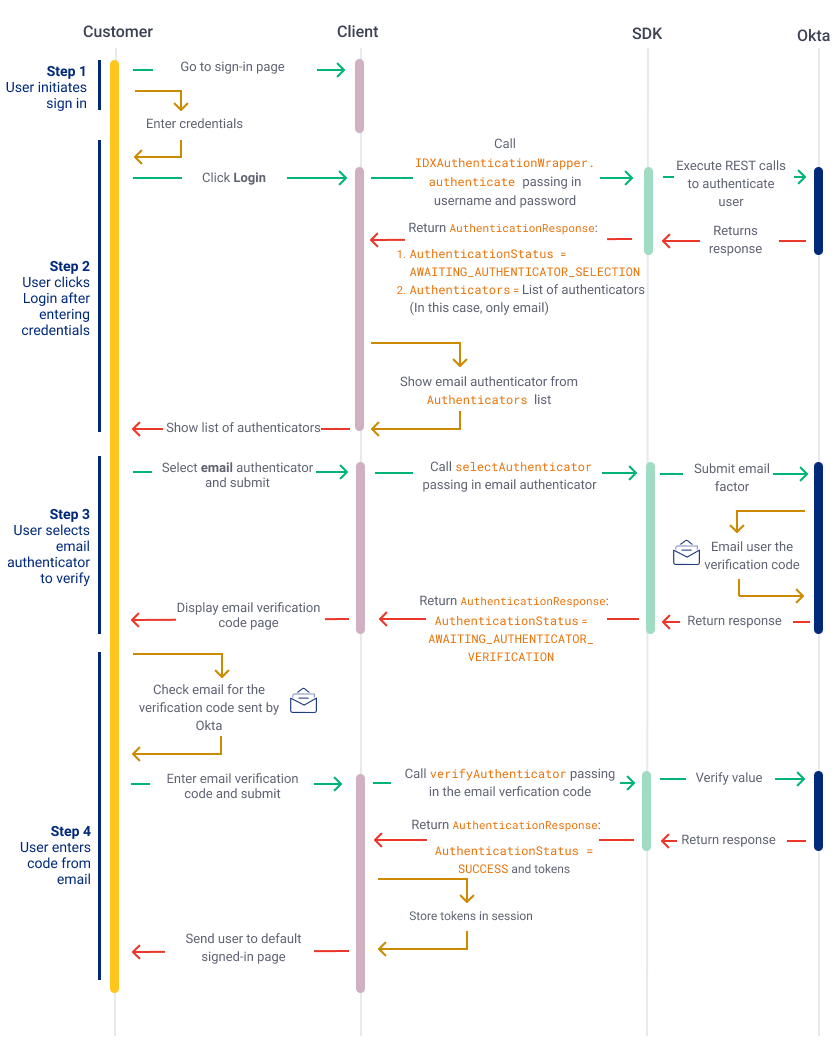
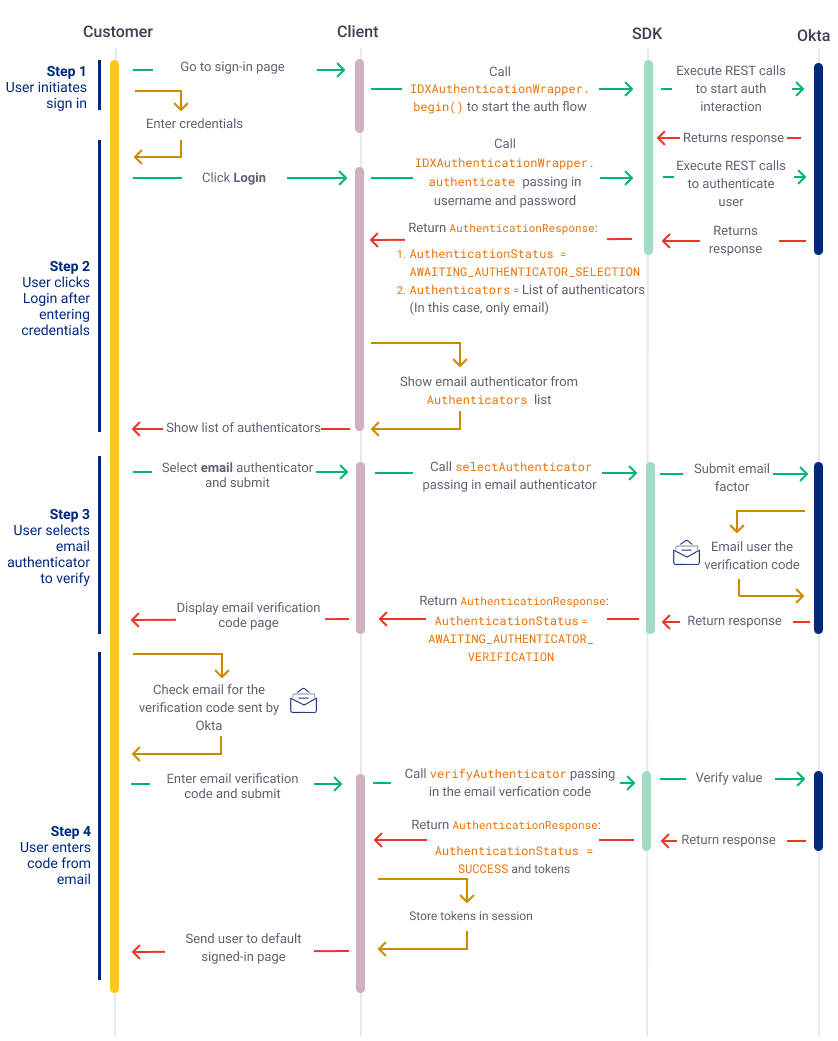
update diagram flow based on feedback from Jay

Changed region(s): [[0.7446, 0.0615, 0.9928, 0.1537], [0.4964, 0.0615, 0.6826, 0.123]]

diff --git a/packages/@okta/vuepress-site/docs/guides/oie-embedded-sdk-use-cases/oie-embedded-sdk-use-case-sign-in-pwd-email/java/integrationsteps.md b/packages/@okta/vuepress-site/docs/guides/oie-embedded-sdk-use-cases/oie-embedded-sdk-use-case-sign-in-pwd-email/java/integrationsteps.md
@@ -10,14 +10,18 @@ Build a sign-in page for your app that captures both the username and password.
 
 </div>
 
-### Step 2: User enters credentials
-
-Begin the authentication process by calling Java SDK's [`IDXAuthenticationWrapper.begin()`](https://github.com/okta/okta-idx-java/blob/master/api/src/main/java/com/okta/idx/sdk/api/client/IDXAuthenticationWrapper.java#L603) method and getting a new [`ProceedContext`](https://github.com/okta/okta-idx-java/blob/master/api/src/main/java/com/okta/idx/sdk/api/client/ProceedContext.java) object. After the user submits their credentials, call `IDXAuthenticationWrapper.authenticate()` with the credential values.
+Begin the authentication process by calling Java SDK's [`IDXAuthenticationWrapper.begin()`](https://github.com/okta/okta-idx-java/blob/master/api/src/main/java/com/okta/idx/sdk/api/client/IDXAuthenticationWrapper.java#L603) method and getting a new [`ProceedContext`](https://github.com/okta/okta-idx-java/blob/master/api/src/main/java/com/okta/idx/sdk/api/client/ProceedContext.java) object.
 
 ```java
 AuthenticationResponse beginResponse = idxAuthenticationWrapper.begin();
 ProceedContext proceedContext = beginResponse.getProceedContext();
+```
 
+### Step 2: User enters credentials
+
+ After the user submits their credentials, call `IDXAuthenticationWrapper.authenticate()` with the credential values.
+
+```java
 AuthenticationResponse authenticationResponse =
      idxAuthenticationWrapper.authenticate(new AuthenticationOptions(username, password.toCharArray()), proceedContext);
 ```
@@ -69,4 +73,4 @@ AuthenticationResponse authenticationResponse =
    idxAuthenticationWrapper.verifyAuthenticator(proceedContext, verifyAuthenticatorOptions);
 ```
 
-If the request to verify the code is successful, the SDK returns an `AuthenticationResponse` object with `AuthenticationStatus=SUCCESS` and the user is successfully signed in. Use the `AuthenticationResponse.getTokenResponse()` method to retrieve the required tokens (access, refresh, ID) for authenticated user activity.
+If the request to verify the code is successful, the SDK returns an `AuthenticationResponse` object with `AuthenticationStatus=SUCCESS` and the user is successfully signed in. Use the [`AuthenticationResponse.getTokenResponse()`](https://github.com/okta/okta-idx-java/blob/master/api/src/main/java/com/okta/idx/sdk/api/response/AuthenticationResponse.java#L43) method to retrieve the required tokens (access, refresh, ID) for authenticated user activity.
